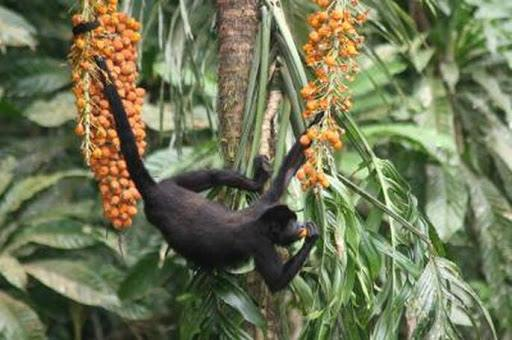
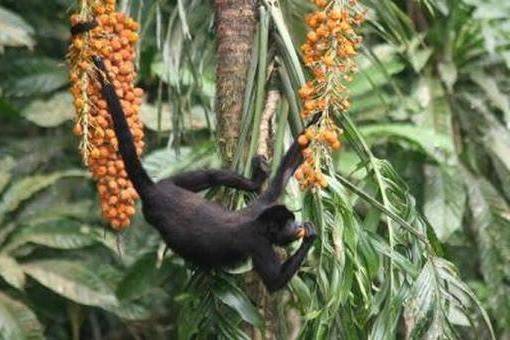
image sizes

diff --git a/css/other-pages.css b/css/other-pages.css
@@ -215,13 +215,16 @@ ul.writing-bullets {
   margin-bottom: 2rem;
 }
 .writing-inline-image-container {
-  display: flex; /* Use flexbox to center the images horizontally */
-  justify-content: center; /* Center the images horizontally */
+  display: flex;
+  justify-content: center;
   margin-top: 2rem;
   margin-bottom: 2rem;
 }
 .writing-inline-image-container img {
   margin: 0 10px;
+  max-width: 350px;
+}
+.writing-inline-image-container.smaller-images img {
   max-width: 250px;
 }
 .video-caption {

diff --git a/writing/fruit-assessments.html b/writing/fruit-assessments.html
@@ -36,7 +36,7 @@
             <img src="../images/writing-posts/fruit-1.jpeg" class="writing-post-single-image" alt="Colombian fruit">
          </a>
 
-         <div class="writing-inline-image-container">
+         <div class="writing-inline-image-container smaller-images">
             <a href="../images/writing-posts/fruit-2.jpeg" data-lightbox="fruit" data-title="">
                 <img src="../images/writing-posts/fruit-2.jpeg" alt="Colombian fruit">
             </a>
